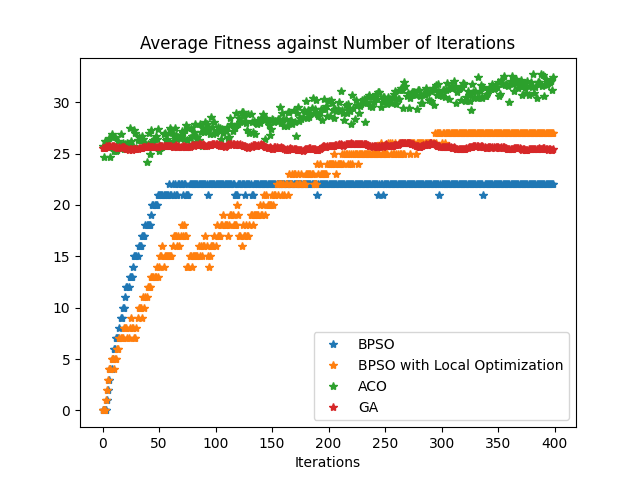
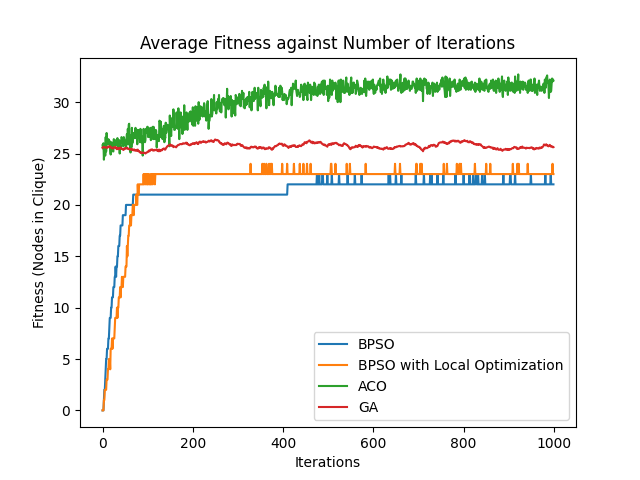
updated

diff --git a/Performance.py b/Performance.py
@@ -1,4 +1,5 @@
 import networkx
+import csv   
 import pandas as pd
 import numpy as np
 import matplotlib.pyplot as plt
@@ -13,8 +14,7 @@ from Visualize_Graph import *
 from LocalOptimizationFunctions import ExpandExistingClique,LimitClique
 
 
-graph1fileName = "Graphs/C125.9.txt"
-G = ImportGraph(graph1fileName)
+
 
 
 def results_GA(Iters,Graph):
@@ -48,9 +48,13 @@ def compare_metaheuristics(graph,n_iters=15,graphName = "C125.9"):
 
     iters = [i for i in range(n_iters)]
     avgFitness_bpso, bestFitness_bpso, maxCliqueNodes_bpso = results_bpso(n_iters,graph)
+    print("bpso Complete")
     avgFitness_bpso_LO, bestFitness_bpso_LO, maxCliqueNodes_bpso_LO = results_bpso(n_iters,graph)
+    print("bpso_LO Complete")
     avgFitness_GA, bestFitness_GA, maxCliqueNodes_GA = results_GA(n_iters,graph)
+    print("GA Complete")
     avgFitness_ACO, bestFitness_ACO, maxCliqueNodes_ACO = results_aco(n_iters,graph)
+    print("ACO Complete")
 
     y_names = ['BPSO', "BPSO with Local Optimization","ACO", "GA"]
     plot_style = '*'
@@ -59,8 +63,9 @@ def compare_metaheuristics(graph,n_iters=15,graphName = "C125.9"):
         , "ACO" : avgFitness_ACO , "GA" : avgFitness_GA
     } 
     frame = pd.DataFrame(avgFitness)
-    frame.plot(x ='Iterations', y = y_names, style=plot_style)
+    frame.plot(x ='Iterations', y = y_names)
     plt.title('Average Fitness against Number of Iterations')
+    plt.ylabel("Fitness (Nodes in Clique)")
     plt.savefig('Plots/plot-average-fitness-' + graphName + '.png')
     plt.show()
     print(frame)
@@ -69,47 +74,62 @@ def compare_metaheuristics(graph,n_iters=15,graphName = "C125.9"):
        , "ACO" : bestFitness_ACO  , "GA" : bestFitness_GA
         } 
     frame = pd.DataFrame(bestFitness)
-    frame.plot(x ='Iterations', y = y_names, style=plot_style)
-    plt.title('Best Fitness (CLique Size) against Number of Iterations')
+    frame.plot(x ='Iterations', y = y_names)
+    plt.title('Best Fitness (Clique Size) against Number of Iterations')
+    plt.ylabel("Fitness (Maximum Clique Nodes)")
     plt.savefig('Plots/plot-best-fitness-'+ graphName +'.png')
     plt.show()
     print(frame)
 
 def compare_metaheuristics_graphs(n_iters=15):
+    
     print("Starting Comparision...")
 
     graphFileNames = os.listdir("Graphs/") 
+    print(graphFileNames)
+     
+    fields=['Graph Name','BPSO','ACO']
+    with open('output.csv', 'a') as f:
+        writer = csv.writer(f)
+        writer.writerow(fields)
+    
     allGraphNames = []
-    bestFitness_bpso = []
     bestFitness_bpso_LO = []
-    bestFitness_GA = [] 
+    # bestFitness_GA = [] 
     bestFitness_ACO = []
     iters = [i for i in range(n_iters)]
-
     for fileName in graphFileNames:
         graph = ImportGraph("Graphs/"+fileName)
         
-        graphName = fileName[:-5]
+        graphName = fileName[:-4]
         if graphName[-4:] == ".col":
-            graphName = graphName[:-5]
+            graphName = graphName[:-4]
         
         print(graphName)
         allGraphNames.append(graphName)
 
-        bestFitness_bpso.append(max(results_bpso(n_iters,graph)[1]))
         bestFitness_bpso_LO.append(max(results_bpso_locally_optimized(n_iters,graph)[1]))
-        bestFitness_GA.append(max(results_GA(n_iters,graph)[1]))
-        bestFitness_ACO.append(max(results_aco(n_iters,graph)[1]))    
+        # bestFitness_GA.append(max(results_GA(n_iters,graph)[1]))
+        bestFitness_ACO.append(max(results_aco(n_iters,graph)[1])) 
+
+        fields=[graphName,str(bestFitness_bpso_LO[-1]),bestFitness_ACO[-1]]
+        with open('output.csv', 'a') as f:
+            writer = csv.writer(f)
+            writer.writerow(fields)
 
 
-    bestFitness = {"Graph Name" : iters, "BPSO": bestFitness_bpso, "BPSO with Local Optimization": bestFitness_bpso_LO  
-    , "ACO" : bestFitness_ACO  , "GA" : bestFitness_GA
+    bestFitness = {"Graph Name" : allGraphNames, "BPSO": bestFitness_bpso_LO  
+    , "ACO" : bestFitness_ACO  ,# "GA" : bestFitness_GA
         } 
     frame = pd.DataFrame(bestFitness)
+    frame.to_csv("Fitness_Comparision_Table.csv")
     print(frame)
 
+graph1fileName = "Graphs/C125.9.txt"
+graph2fileName = "Graphs/MANN_a27.txt"
+G = ImportGraph(graph1fileName)
 
-# compare_metaheuristics(G,400)
+# compare_metaheuristics(G,1000)
 
-compare_metaheuristics_graphs(3)
+compare_metaheuristics_graphs(800)
 

diff --git a/GA_clique.py b/GA_clique.py
@@ -200,7 +200,9 @@ def pop_resize(selected):
 def check_Clique(Chrom, G):
     #Chrom is a vector with binary values
 
-    print("Chrom",Chrom)
+    # print("Chrom",Chrom)
+    # print(len(Chrom),len(G.keys()))
+    # print("G_keys",G.keys())
     nodes = []
     for i in range(len(Chrom)):
         if Chrom[i] == 1:
@@ -238,7 +240,6 @@ def check_Clique(Chrom, G):
 
     # Create New Chromosome of updated clique       
     NewChrom = [0] * len(Chrom)
-    print(CliqueV)
     for v in CliqueV:
         NewChrom[v-1] = 1
 
